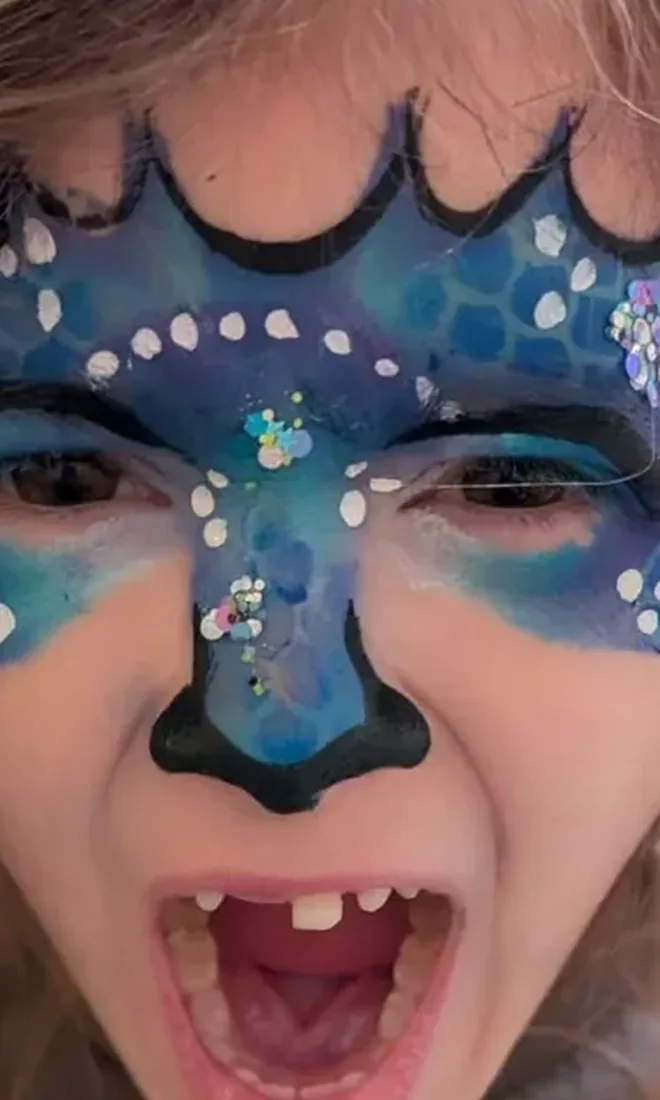
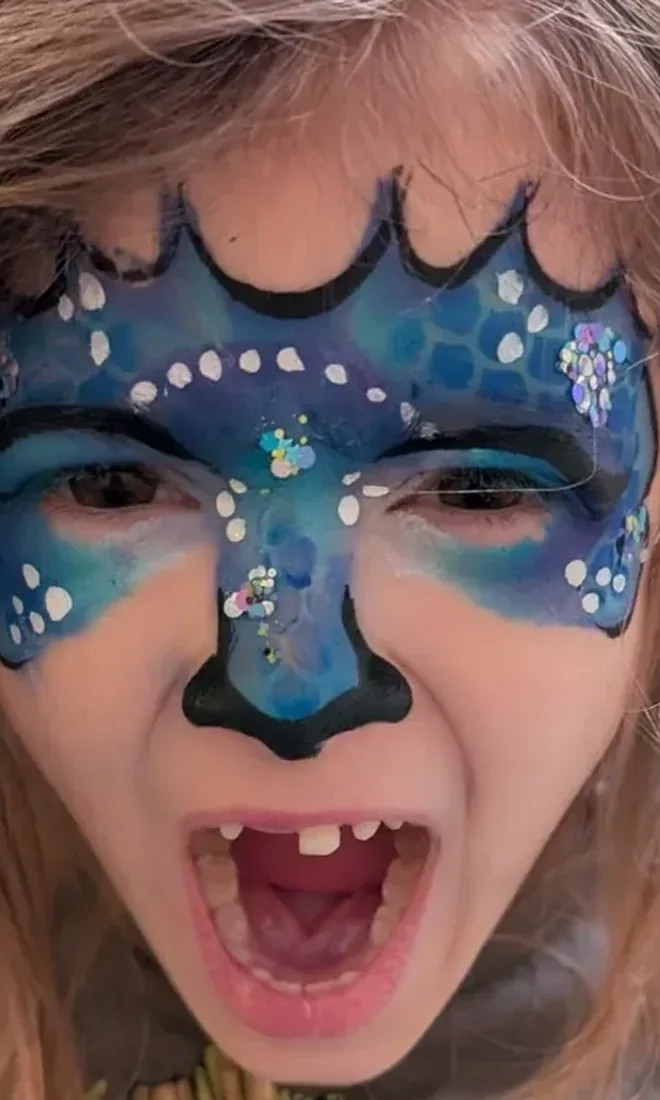
Halloween page: photo line zoomed out a little
Claude-Session: https://claude.ai/code/session_012bdPLZhqYkLUzfzYFPc2Bh

diff --git a/tools/build_halloween_crops.py b/tools/build_halloween_crops.py
@@ -46,7 +46,7 @@ ZOOM_CY = {'devil-girl': .47, 'werewolf': .45, 'pumpkin-big-sister': .20, 'skull
 for k, p, cx, cy, f in C:
     cy = ZOOM_CY.get(k, cy)
     im = ImageOps.exif_transpose(Image.open(p)).convert('RGB'); W, H = im.size
-    cw = f * .36 * W; ch = cw * 5 / 3
+    cw = f * .44 * W; ch = cw * 5 / 3
     x0 = min(max(cx * W - cw / 2, 0), W - cw); y0 = min(max(cy * H - ch * .47, 0), H - ch)
     im.crop((round(x0), round(y0), round(x0 + cw), round(y0 + ch))).resize((660, 1100), Image.LANCZOS).save(f'hw/halloween-{k}-zoom.webp', 'WEBP', quality=82, method=6)
 print('zoom crops done')
